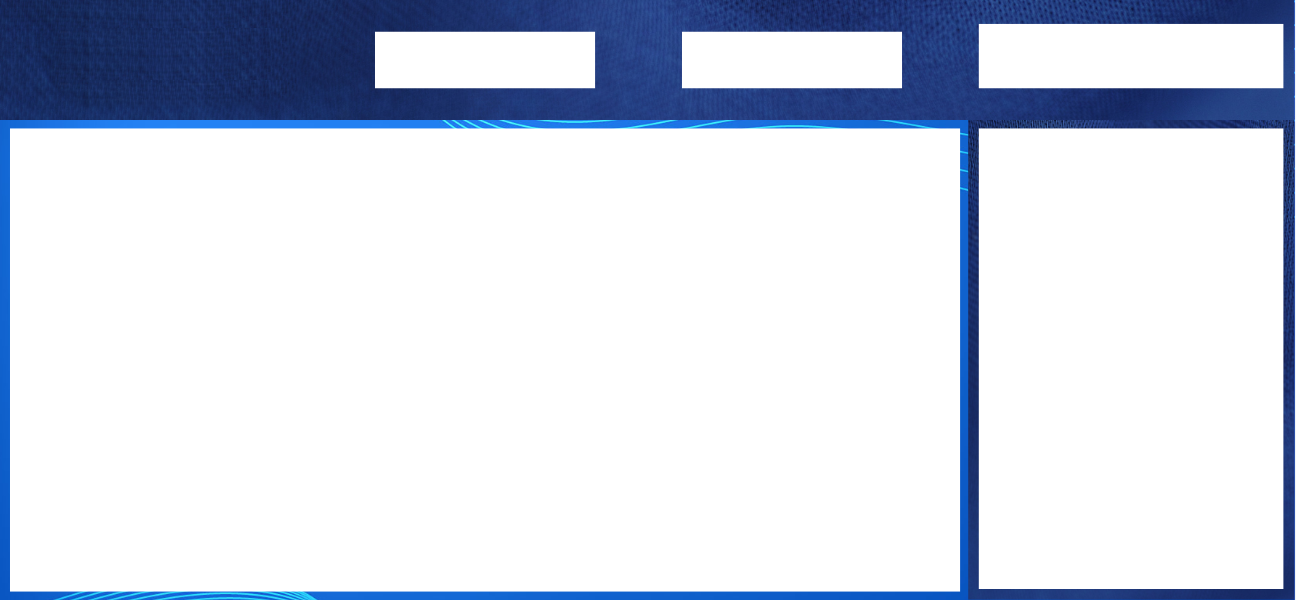
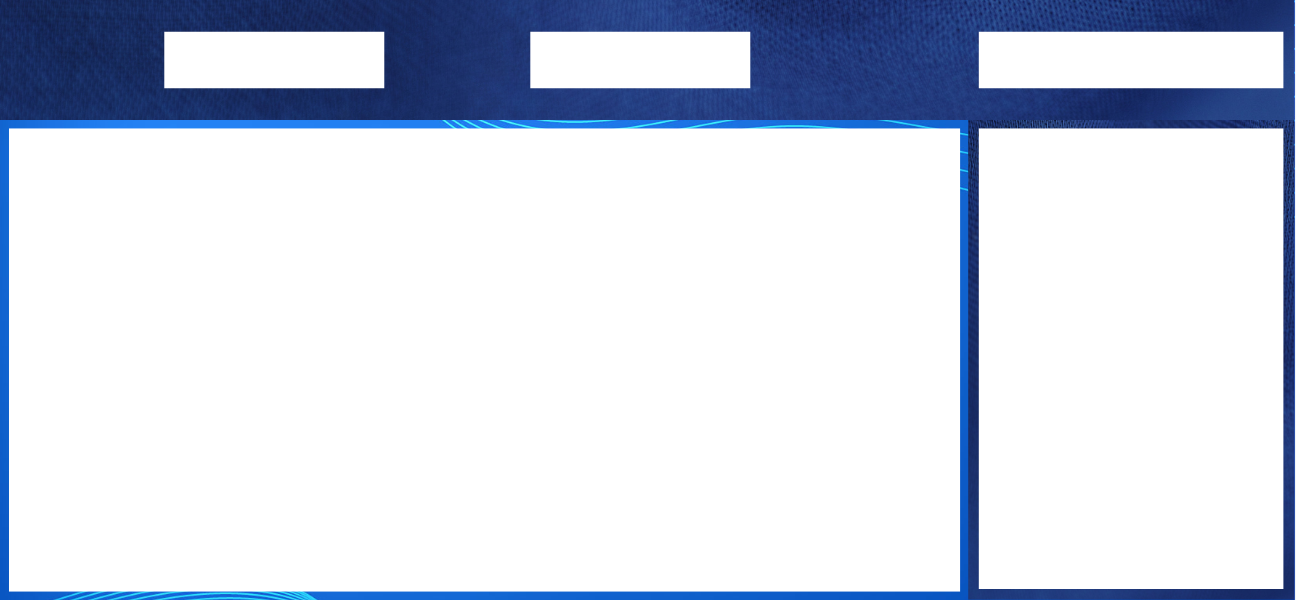
Ultimas Atualizações - 18/08/2022 - 03:00

Changed region(s): [[0.1231, 0.03, 0.5231, 0.15], [0.5538, 0.03, 0.7077, 0.15], [0.7385, 0.03, 0.9846, 0.06]]

diff --git a/class_tk.py b/class_tk.py
@@ -19,9 +19,10 @@ from tkinter import *
 import tkinter as tk
 from turtle import title, width
 
+
 #CONSTRUÇÃO EWERSON
 cotar = Cotacao()
-cadastrar = Cadastro()
+cadastrar = Cadastro(None, None, None, None, None)
 #CONSTRUÇÃO EWERSON
 
 root = Tk()
@@ -41,7 +42,7 @@ fr5 = Frame()
 
 #CONSTRUÇÃO EWERSON
 def logando():
-    mysqldb = mysql.connector.connect(host='localhost',user='root',password='q1w2e3',database='investimentos')
+    mysqldb = mysql.connector.connect(host='localhost',user='root',password='92337155Thule03@1',database='investimentos')
     mycursor = mysqldb.cursor()
     global user, x
     user = fr0_in2.get()
@@ -492,33 +493,41 @@ def escolha_vender():
     if nome_moeda_n == 'DOLAR' or nome_moeda_n == 'DÓLAR':
         print('1')
         cotar.dolar()
-        montante_n = cotar.d + capital_n
-        cadastrar.cadastro_movimentacao(cod_n, nome_atk_n, nome_moeda_n, capital_n, montante_n)
+        montante_n = float(cotar.d) + float(capital_n)
+        cadastrar.cadastro_movimentacoes_n(cod_n, nome_atk_n, nome_moeda_n, capital_n, montante_n)
         fr5_lab7['text']=montante_n
     if nome_moeda_n == 'EURO':
         print('2')
         cotar.euro()
         montante_n = cotar.e + capital_n
-        cadastrar.cadastro_movimentacao(cod_n, nome_atk_n, nome_moeda_n, capital_n, montante_n)
+        cadastrar.cadastro_movimentacoes_n(cod_n, nome_atk_n, nome_moeda_n, capital_n, montante_n)
         fr5_lab7['text']=montante_n
     if nome_moeda_n == 'LIBRA':
         print('3')
         cotar.libra()
         montante_n = cotar.l + capital_n
-        cadastrar.cadastro_movimentacao(cod_n, nome_atk_n, nome_moeda_n, capital_n, montante_n)
+        cadastrar.cadastro_movimentacoes_n(cod_n, nome_atk_n, nome_moeda_n, capital_n, montante_n)
         fr5_lab7['text']=montante_n
     if nome_moeda_n == 'BITCOIN':
         print('4')
         cotar.bitcoin()
         montante_n = cotar.b + capital_n
-        cadastrar.cadastro_movimentacao(cod_n, nome_atk_n, nome_moeda_n, capital_n, montante_n)
+        cadastrar.cadastro_movimentacoes_n(cod_n, nome_atk_n, nome_moeda_n, capital_n, montante_n)
         fr5_lab7['text']=montante_n
     if nome_moeda_n == 'ETHEREUM':
         print('5')
         cotar.ethereum()
         montante_n = cotar.t + capital_n
-        cadastrar.cadastro_movimentacao(cod_n, nome_atk_n, nome_moeda_n, capital_n, montante_n)
+        cadastrar.cadastro_movimentacoes_n(cod_n, nome_atk_n, nome_moeda_n, capital_n, montante_n)
         fr5_lab7['text']=montante_n
+
+def mostrar_saldo():
+    cadastrar.saldo_conta(user)
+    fr2_lab18['text']=round(cadastrar.dolar,3)
+    fr2_lab19['text']=round(cadastrar.euro,3)
+    fr2_lab20['text']=round(cadastrar.libra,3)
+    fr2_lab21['text']=round(cadastrar.bitcoin,3)
+    fr2_lab22['text']=round(cadastrar.ethereum,3)
 
 #def escolha_euro2():
 #    meses = fr3_in4.get()
@@ -663,7 +672,7 @@ fr0_in3.place(width=392, height=45, x=37, y=302)
 
 #CONSTRUÇÃO EWERSON
 # Botão do entrar
-fr0_bt0 = Button(fr0, bd=0, image=fr0_img_2,command=lambda: [logando(), chama_cotacao(), chama_media(),clear_4()])
+fr0_bt0 = Button(fr0, bd=0, image=fr0_img_2,command=lambda: [logando(), chama_cotacao(), chama_media(),clear_4(), mostrar_saldo()])
 fr0_bt0.place(width=118, height=64, x=290, y=408)
 
 # Botão do cadastro
@@ -793,11 +802,11 @@ fr2_lab22.place(width=145, height=24, x=991, y=472) #Ethereum
 # Criação de botões
 
 # Botão de guardar
-fr2_bt1 = Button(fr2, bd=0, image=fr2_img_2, command= lambda:[fr2.grid_remove(),fr5.grid(),root.geometry("1289x600+310+153")]).place(width=223, height=60, x=675, y=32)
+fr2_bt1 = Button(fr2, bd=0, image=fr2_img_2, command= lambda:[fr2.grid_remove(),fr5.grid(),root.geometry("1289x600+310+153")]).place(width=223, height=60, x=525, y=32)
 # Botão de comprar
 #fr2_bt2 = Button(fr2, bd=0, image=fr2_img_3, command= lambda:[fr2.grid_remove(),fr3.grid(),root.geometry("1289x600+310+153")]).place(width=223, height=60, x=54, y=32)
 # Botão de vender
-fr2_bt3 = Button(fr2, bd=0, image=fr2_img_4, command= lambda:[fr2.grid_remove(),fr4.grid(),root.geometry("1289x600+310+153")]).place(width=223, height=60, x=367, y=32)
+fr2_bt3 = Button(fr2, bd=0, image=fr2_img_4, command= lambda:[fr2.grid_remove(),fr4.grid(),root.geometry("1289x600+310+153")]).place(width=223, height=60, x=158, y=32)
 # Botão de Sair
 fr2_bt4 = Button(fr2,bd=0,image=fr2_img_11, command= lambda:[fr2.grid_remove(),fr0.grid(),root.geometry("484x560+800+155")])
 fr2_bt4.place(width=115, height=42, x=1070, y=518)
@@ -906,7 +915,7 @@ fr4_lab1 = Label(fr4,bd=0, image=fr4_img_6).place(width=310, height=470, x=970, 
 fr4_lab2 = Label(fr4,bd=0, image=fr4_img_5).place(width=305, height=65, x=974, y=26)
 
 #tela do grafico
-fr4_lab3 = Label(fr4, image=fr4_img_10, width=1000).place(width=950, height=470, x=5, y=125) #
+fr4_lab3 = Label(fr4, image=fr4_img_10, width=1000).place(width=950, height=470, x=5, y=125) # 
 
 fr4_lab4 = Label(fr4,bd=0, image=fr4_img_11).place(width=178, height=52, x=30, y=148) # label moeda
 
@@ -915,7 +924,7 @@ fr4_lab5 = Label(fr4,bd=0, image=fr4_img_12).place(width=218, height=52, x=222, 
 fr4_lab6 = Label(fr4,bd=0, image=fr4_img_13).place(width=480, height=52, x=462, y=148) # label media
 
 fr4_lab7 = Label(fr4,text='', font=("Calibri", 15))
-fr4_lab7.place(width=145, height=24, x=993, y=454) #Montante
+fr4_lab7.place(width=145, height=24, x=993, y=370) #Montante
 
 fr4_lab8 = Label(fr4, text='',bd=0)
 fr4_lab8.place(width=200, height=40, x=230, y=225) #label do USD
@@ -951,22 +960,22 @@ fr4_lab17.place(width=465, height=40, x=470, y=535) #label do ETHEREUM Média
 # Criação de botões 
 
 # Botão de guardar
-fr4_bt1 = Button(fr4, bd=0, image=fr4_img_2, command= lambda:[fr4.grid_remove(),fr5.grid(),root.geometry("1289x600+310+153")]).place(width=223, height=60, x=675, y=32)
+fr4_bt1 = Button(fr4, bd=0, image=fr4_img_2, command= lambda:[fr4.grid_remove(),fr5.grid(),root.geometry("1289x600+310+153")]).place(width=223, height=60, x=525, y=32)
 # Botão de comprar
 #fr4_bt2 = Button(fr4, bd=0, image=fr4_img_3, command= lambda:[fr4.grid_remove(),fr3.grid(),root.geometry("1289x600+310+153")]).place(width=223, height=60, x=54, y=32)
 # Botão de vender
-fr4_bt3 = Button(fr4, bd=0, image=fr4_img_4, command= lambda:[fr4.grid_remove(),fr4.grid(),root.geometry("1289x600+310+153")]).place(width=223, height=60, x=367, y=32)
+fr4_bt3 = Button(fr4, bd=0, image=fr4_img_4, command= lambda:[fr4.grid_remove(),fr4.grid(),root.geometry("1289x600+310+153")]).place(width=223, height=60, x=158, y=32)
 
 # Botão de limpar
 fr4_bt4 = Button(fr4, bd=0, image=fr4_img_8, command=lambda: [clear_2()] )
-fr4_bt4.place(width=115, height=43, x=1147, y=502)
+fr4_bt4.place(width=115, height=43, x=1002, y=432)
 #  botão de Confirmar
 fr4_bt5 = Button(fr4, bd=0, image=fr4_img_9, command=lambda: [escolha_vender()])
-fr4_bt5.place(width=115, height=42, x=1147, y=438)
+fr4_bt5.place(width=115, height=42, x=1141, y=432)
 
 # Botão de voltar
 fr4_bt6 = Button(fr4, bd=0, image=fr4_img_14, command=lambda: [fr4.grid_remove(),fr2.grid(),root.geometry("1289x600+310+153")])
-fr4_bt6.place(width=115, height=42, x=1002, y=503)
+fr4_bt6.place(width=115, height=42, x=1075, y=498)
 
 fr4_in1 = Entry(fr4, bd=2,textvariable=var2, font=("Calibri", 15))
 fr4_in1.place(width=140, height=24, x=993, y=222) #moeda a vender
@@ -1037,11 +1046,11 @@ fr5_lab17.place(width=465, height=40, x=470, y=535) #label do ETHEREUM Média
 # Criação de botões 
 
 # Botão de guardar
-fr5_bt1 = Button(fr5, bd=0, image=fr5_img_2, command= lambda:[fr5.grid_remove(),fr5.grid(),root.geometry("1289x600+310+153")]).place(width=223, height=60, x=675, y=32)
+fr5_bt1 = Button(fr5, bd=0, image=fr5_img_2, command= lambda:[fr5.grid_remove(),fr5.grid(),root.geometry("1289x600+310+153")]).place(width=223, height=60, x=525, y=32)
 # Botão de compra
 #fr5_bt2 = Button(fr5, bd=0, image=fr5_img_3,command= lambda:[fr5.grid_remove(),fr3.grid(),root.geometry("1289x600+310+153")]).place(width=223, height=60, x=54, y=32)
 # Botão de venda
-fr5_bt3 = Button(fr5, bd=0, image=fr5_img_4,command= lambda:[fr5.grid_remove(),fr4.grid(),root.geometry("1289x600+310+153")]).place(width=223, height=60, x=367, y=32)
+fr5_bt3 = Button(fr5, bd=0, image=fr5_img_4,command= lambda:[fr5.grid_remove(),fr4.grid(),root.geometry("1289x600+310+153")]).place(width=223, height=60, x=158, y=32)
 # Botão de limpar
 fr5_bt4 = Button(fr5, bd=0, image=fr5_img_8, command=lambda: [clear_3()])
 fr5_bt4.place(width=115, height=42, x=996, y=459)

diff --git a/class_cadastro.py b/class_cadastro.py
@@ -1,10 +1,17 @@
+from msvcrt import kbhit
+from re import L
 from tkinter import messagebox
 import mysql.connector
 from class_usuario import*
 class Cadastro:
 
-    def __init__(self):
-        self.conexao = mysql.connector.connect(host='localhost', user='root', password='q1w2e3', database='investimentos')
+    def __init__(self, dolar, euro, libra, bitcoin, ethereum):
+        self.dolar = dolar
+        self.euro = euro
+        self.libra = libra
+        self.bitcoin = bitcoin
+        self.ethereum = ethereum
+        self.conexao = mysql.connector.connect(host='localhost', user='root', password='92337155Thule03@1', database='investimentos')
         self.mycursor = self.conexao.cursor() 
 
     def cadastro(self,cpf_cnpj, nome, dataNasc, telefone, senha):
@@ -53,3 +60,105 @@ class Cadastro:
         self.mycursor.execute(comando_sql)
         self.conexao.commit()
         messagebox.showinfo('', 'Movimentação foi cadastrada')
+
+    def saldo_conta(self, user):
+        comando_sql = f'select sum(montante) from movimentacoes where (nome_moeda = "DOLAR" or nome_moeda = "DÓLAR") and nome_atk = "{user}"';
+        self.mycursor.execute(comando_sql)
+        lista = self.mycursor.fetchall()
+        a = lista[0]
+        comando_sql = f'select sum(montante_n) from movimentacoes_n where (nome_moeda_n = "DOLAR" or nome_moeda_n = "DÓLAR") and nome_atk_n = "{user}"';
+        self.mycursor.execute(comando_sql)
+        lista = self.mycursor.fetchall()
+        b = lista[0]
+        if a[0] == None and b[0] != None:
+            self.dolar=(b[0])
+        elif a[0] != None and b[0] == None:
+            self.dolar=(a[0])
+        elif a[0] == None and b[0] == None:
+            self.dolar=0.0
+        elif a[0] != None and b[0] != None:
+            self.dolar=(a[0])-(b[0])
+        else:
+            pass
+        
+        comando_sql = f'select sum(montante) from movimentacoes where nome_moeda = "EURO" and nome_atk = "{user}"';
+        self.mycursor.execute(comando_sql)
+        lista = self.mycursor.fetchall()
+        c = lista[0]
+        comando_sql = f'select sum(montante_n) from movimentacoes_n where nome_moeda_n = "EURO" and nome_atk_n = "{user}"';
+        self.mycursor.execute(comando_sql)
+        lista = self.mycursor.fetchall()
+        d = lista[0]
+        if c[0] == None and d[0] != None:
+            self.euro=(d[0])
+        elif c[0] != None and d[0] == None:
+            self.euro=(c[0])
+        elif c[0] == None and d[0] == None:
+            self.euro=0.0
+        elif c[0] != None and d[0] != None:
+            self.euro=(c[0])-(d[0])
+        else:
+            pass
+
+        comando_sql = f'select sum(montante) from movimentacoes where nome_moeda = "LIBRA" and nome_atk = "{user}"';
+        self.mycursor.execute(comando_sql)
+        lista = self.mycursor.fetchall()
+        e = lista[0]
+        comando_sql = f'select sum(montante_n) from movimentacoes_n where nome_moeda_n = "LIBRA" and nome_atk_n = "{user}"';
+        self.mycursor.execute(comando_sql)
+        lista = self.mycursor.fetchall()
+        f = lista[0]
+        if e[0] == None and f[0] != None:
+            self.libra=(f[0])
+        elif e[0] != None and f[0] == None:
+            self.libra=(e[0])
+        elif e[0] == None and f[0] == None:
+            self.libra=0.0
+        elif e[0] != None and f[0] != None:
+            self.libra=(e[0])-(f[0])
+        else:
+            pass
+
+        comando_sql = f'select sum(montante) from movimentacoes where nome_moeda = "BITCOIN" and nome_atk = "{user}"';
+        self.mycursor.execute(comando_sql)
+        lista = self.mycursor.fetchall()
+        g = lista[0]
+        comando_sql = f'select sum(montante_n) from movimentacoes_n where nome_moeda_n = "BITCOIN" and nome_atk_n = "{user}"';
+        self.mycursor.execute(comando_sql)
+        lista = self.mycursor.fetchall()
+        h = lista[0]
+        if g[0] == None and h[0] != None:
+            self.bitcoin=(h[0])
+        elif g[0] != None and h[0] == None:
+            self.bitcoin=(g[0])
+        elif g[0] == None and h[0] == None:
+            self.bitcoin=0.0
+        elif g[0] != None and h[0] != None:
+            self.bitcoin=(g[0])-(h[0])
+        else:
+            pass
+
+        comando_sql = f'select sum(montante) from movimentacoes where nome_moeda = "ETHEREUM" and nome_atk = "{user}"';
+        self.mycursor.execute(comando_sql)
+        lista = self.mycursor.fetchall()
+        i = lista[0]
+        comando_sql = f'select sum(montante_n) from movimentacoes_n where nome_moeda_n = "ETHEREUM" and nome_atk_n = "{user}"';
+        self.mycursor.execute(comando_sql)
+        lista = self.mycursor.fetchall()
+        j = lista[0]
+        if i[0] == None and j[0] != None:
+            self.ethereum=(j[0])
+        elif i[0] != None and j[0] == None:
+            self.ethereum=(i[0])
+        elif i[0] == None and j[0] == None:
+            self.ethereum=0.0
+        elif i[0] != None and j[0] != None:
+            self.ethereum=(i[0])-(j[0])
+        else:
+            pass
+        #comando_sql = f'select sum(montante) from movimentacoes where nome_moeda = "DOLAR" or nome_moeda = "DÓLAR"';
+        # 
+        #self.euro = 
+        #self.libra = 
+        #self.bitcoin = 
+        #self.ethereum = 

diff --git a/class_cotacao.py b/class_cotacao.py
@@ -18,7 +18,6 @@ class Cotacao:
         self.ml = ml
         self.mb = mb
         self.met = met
-
 #VALOR ESTÁTICO
     def dolar(self):
         requisicao = requests.get(f'https://economia.awesomeapi.com.br/all/USD-BRL')
@@ -45,7 +44,6 @@ class Cotacao:
         requisicao = requests.get(f'https://economia.awesomeapi.com.br/all/ETH-BRL')
         cotacao = requisicao.json()
         self.et=cotacao['ETH']['bid'] 
-
 #VALOR DOS ÚLTIMOS 3 MESES
     def dolar1(self):
         requisicao = requests.get(f'https://economia.awesomeapi.com.br/json/daily/USD-BRL/90')
@@ -81,7 +79,6 @@ class Cotacao:
         self.et3=0
         for i in cotacao:
             self.et3 = round((self.et3+float(i['bid']))/len(cotacao),3)
-
 #VALOR VARIÁVEL, ESCOLHA DO CLIENTE
     def dolar2(self, meses):
         self.md = (meses*self.d3)/3
